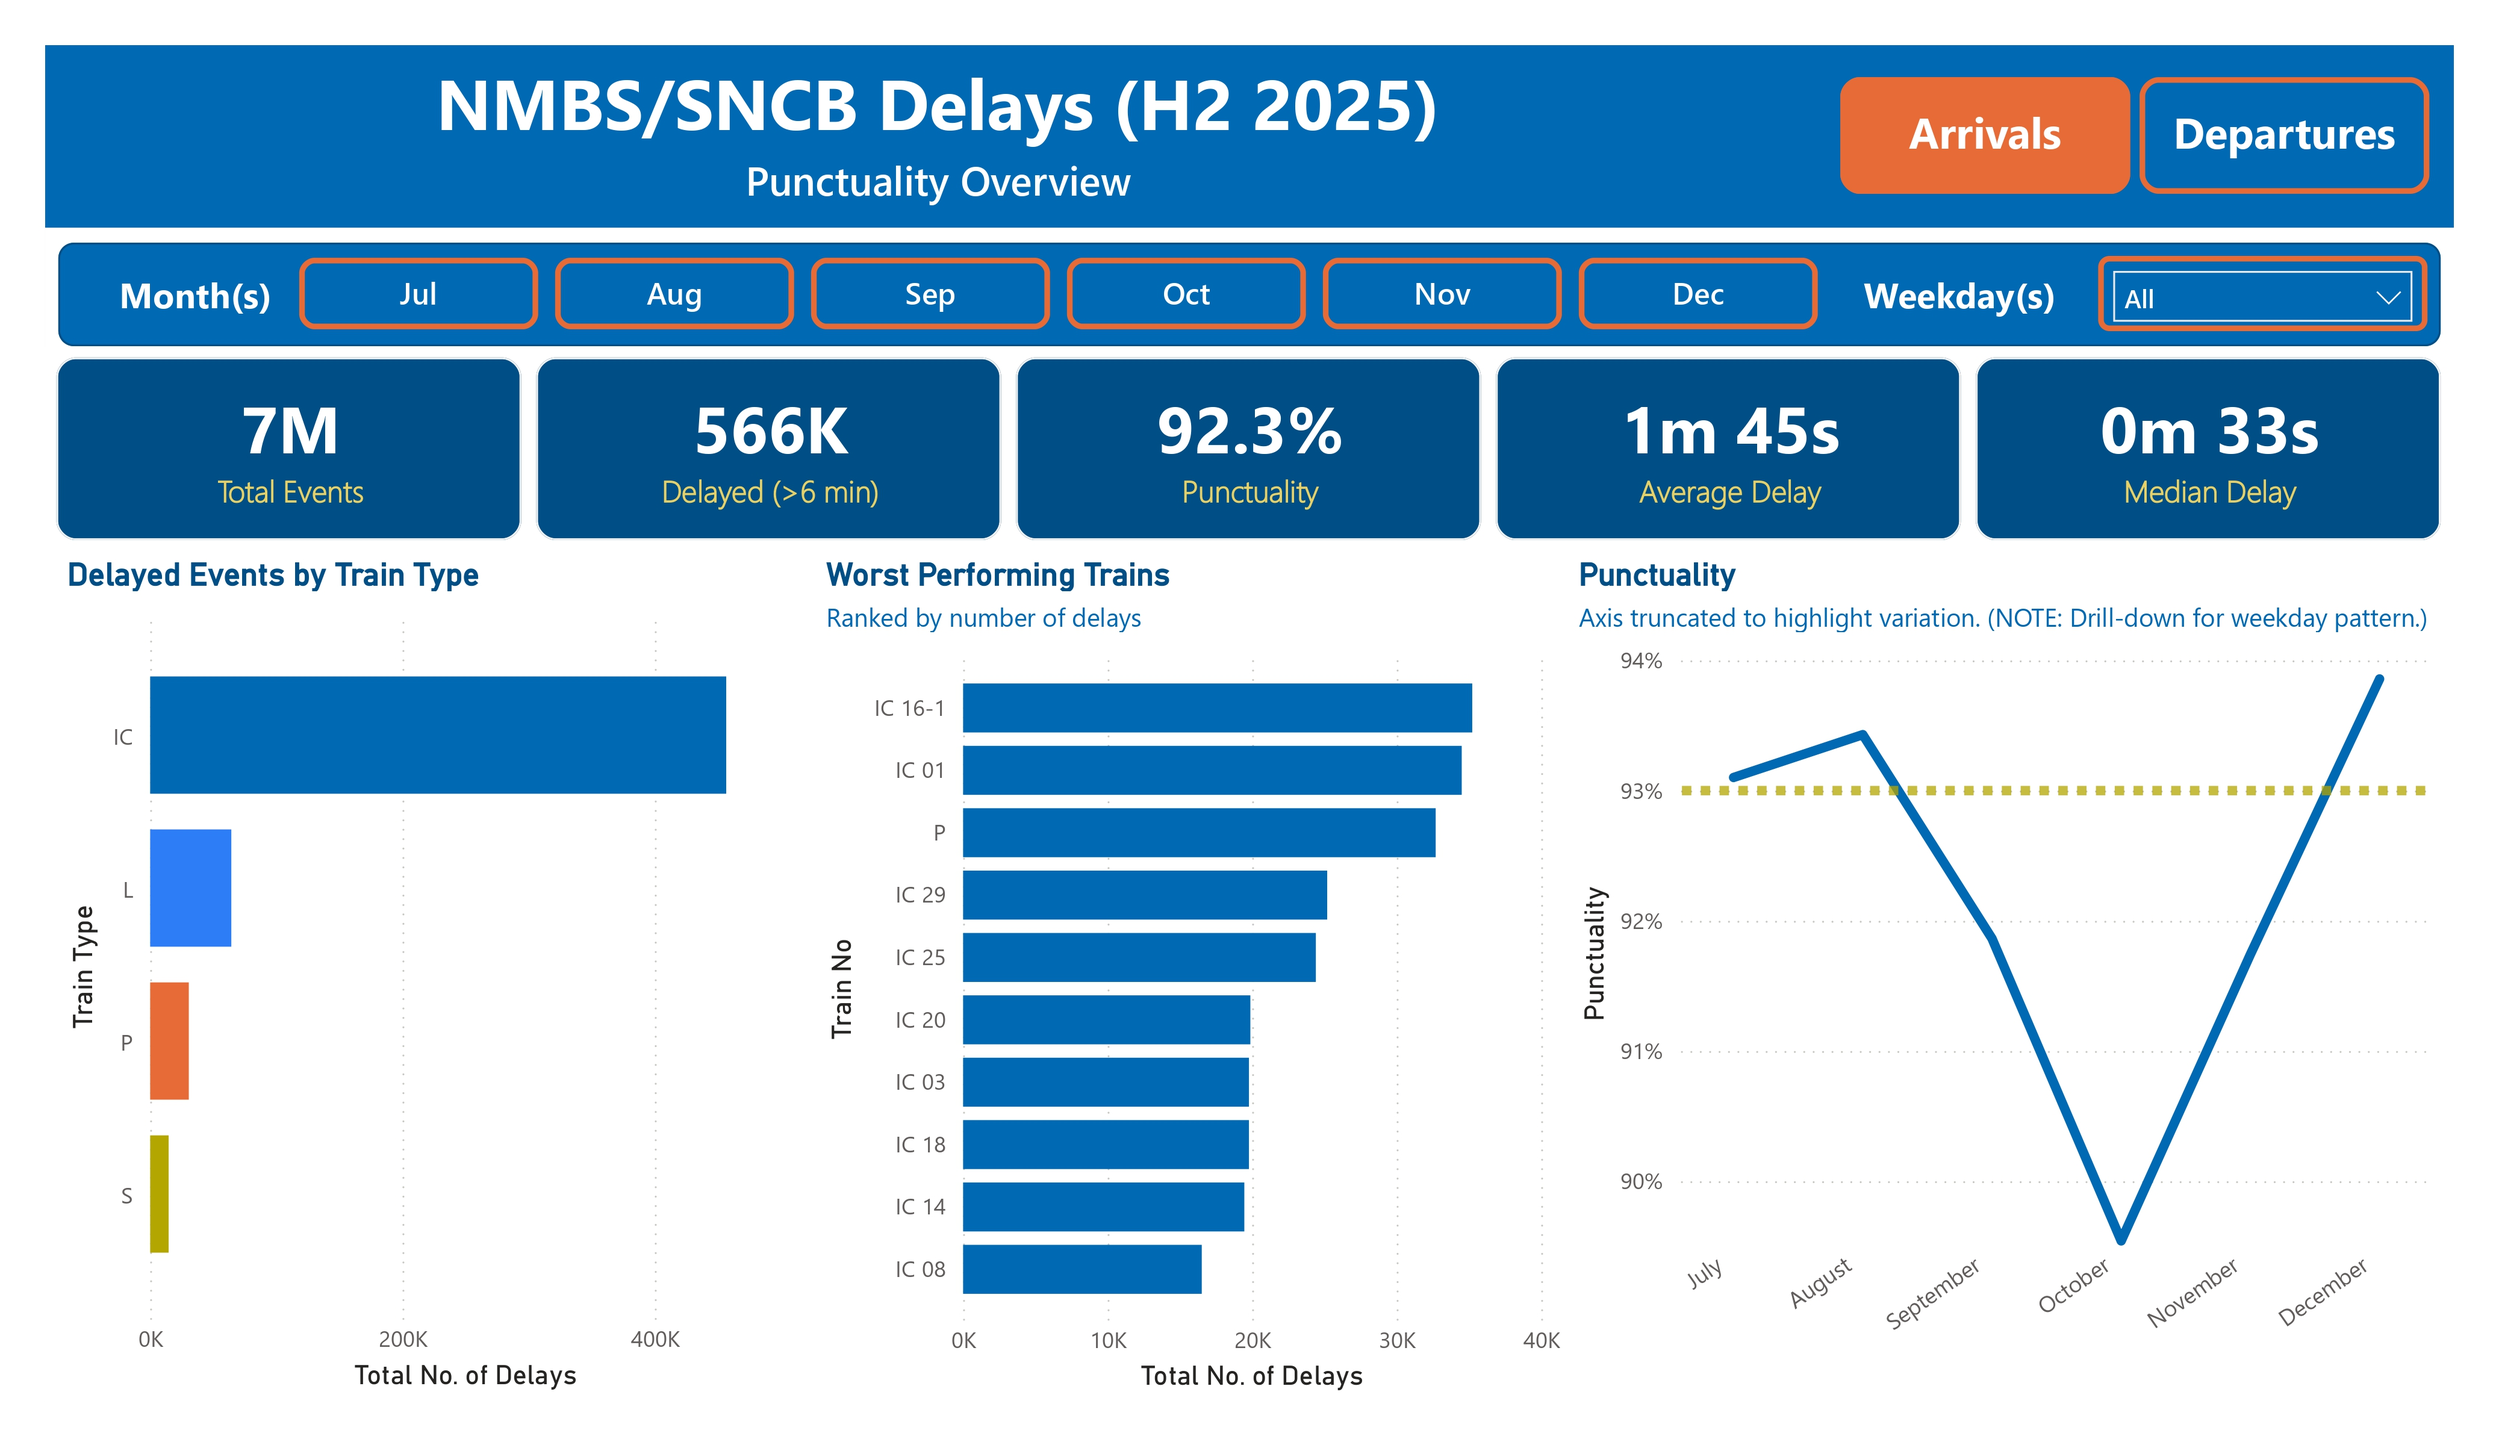
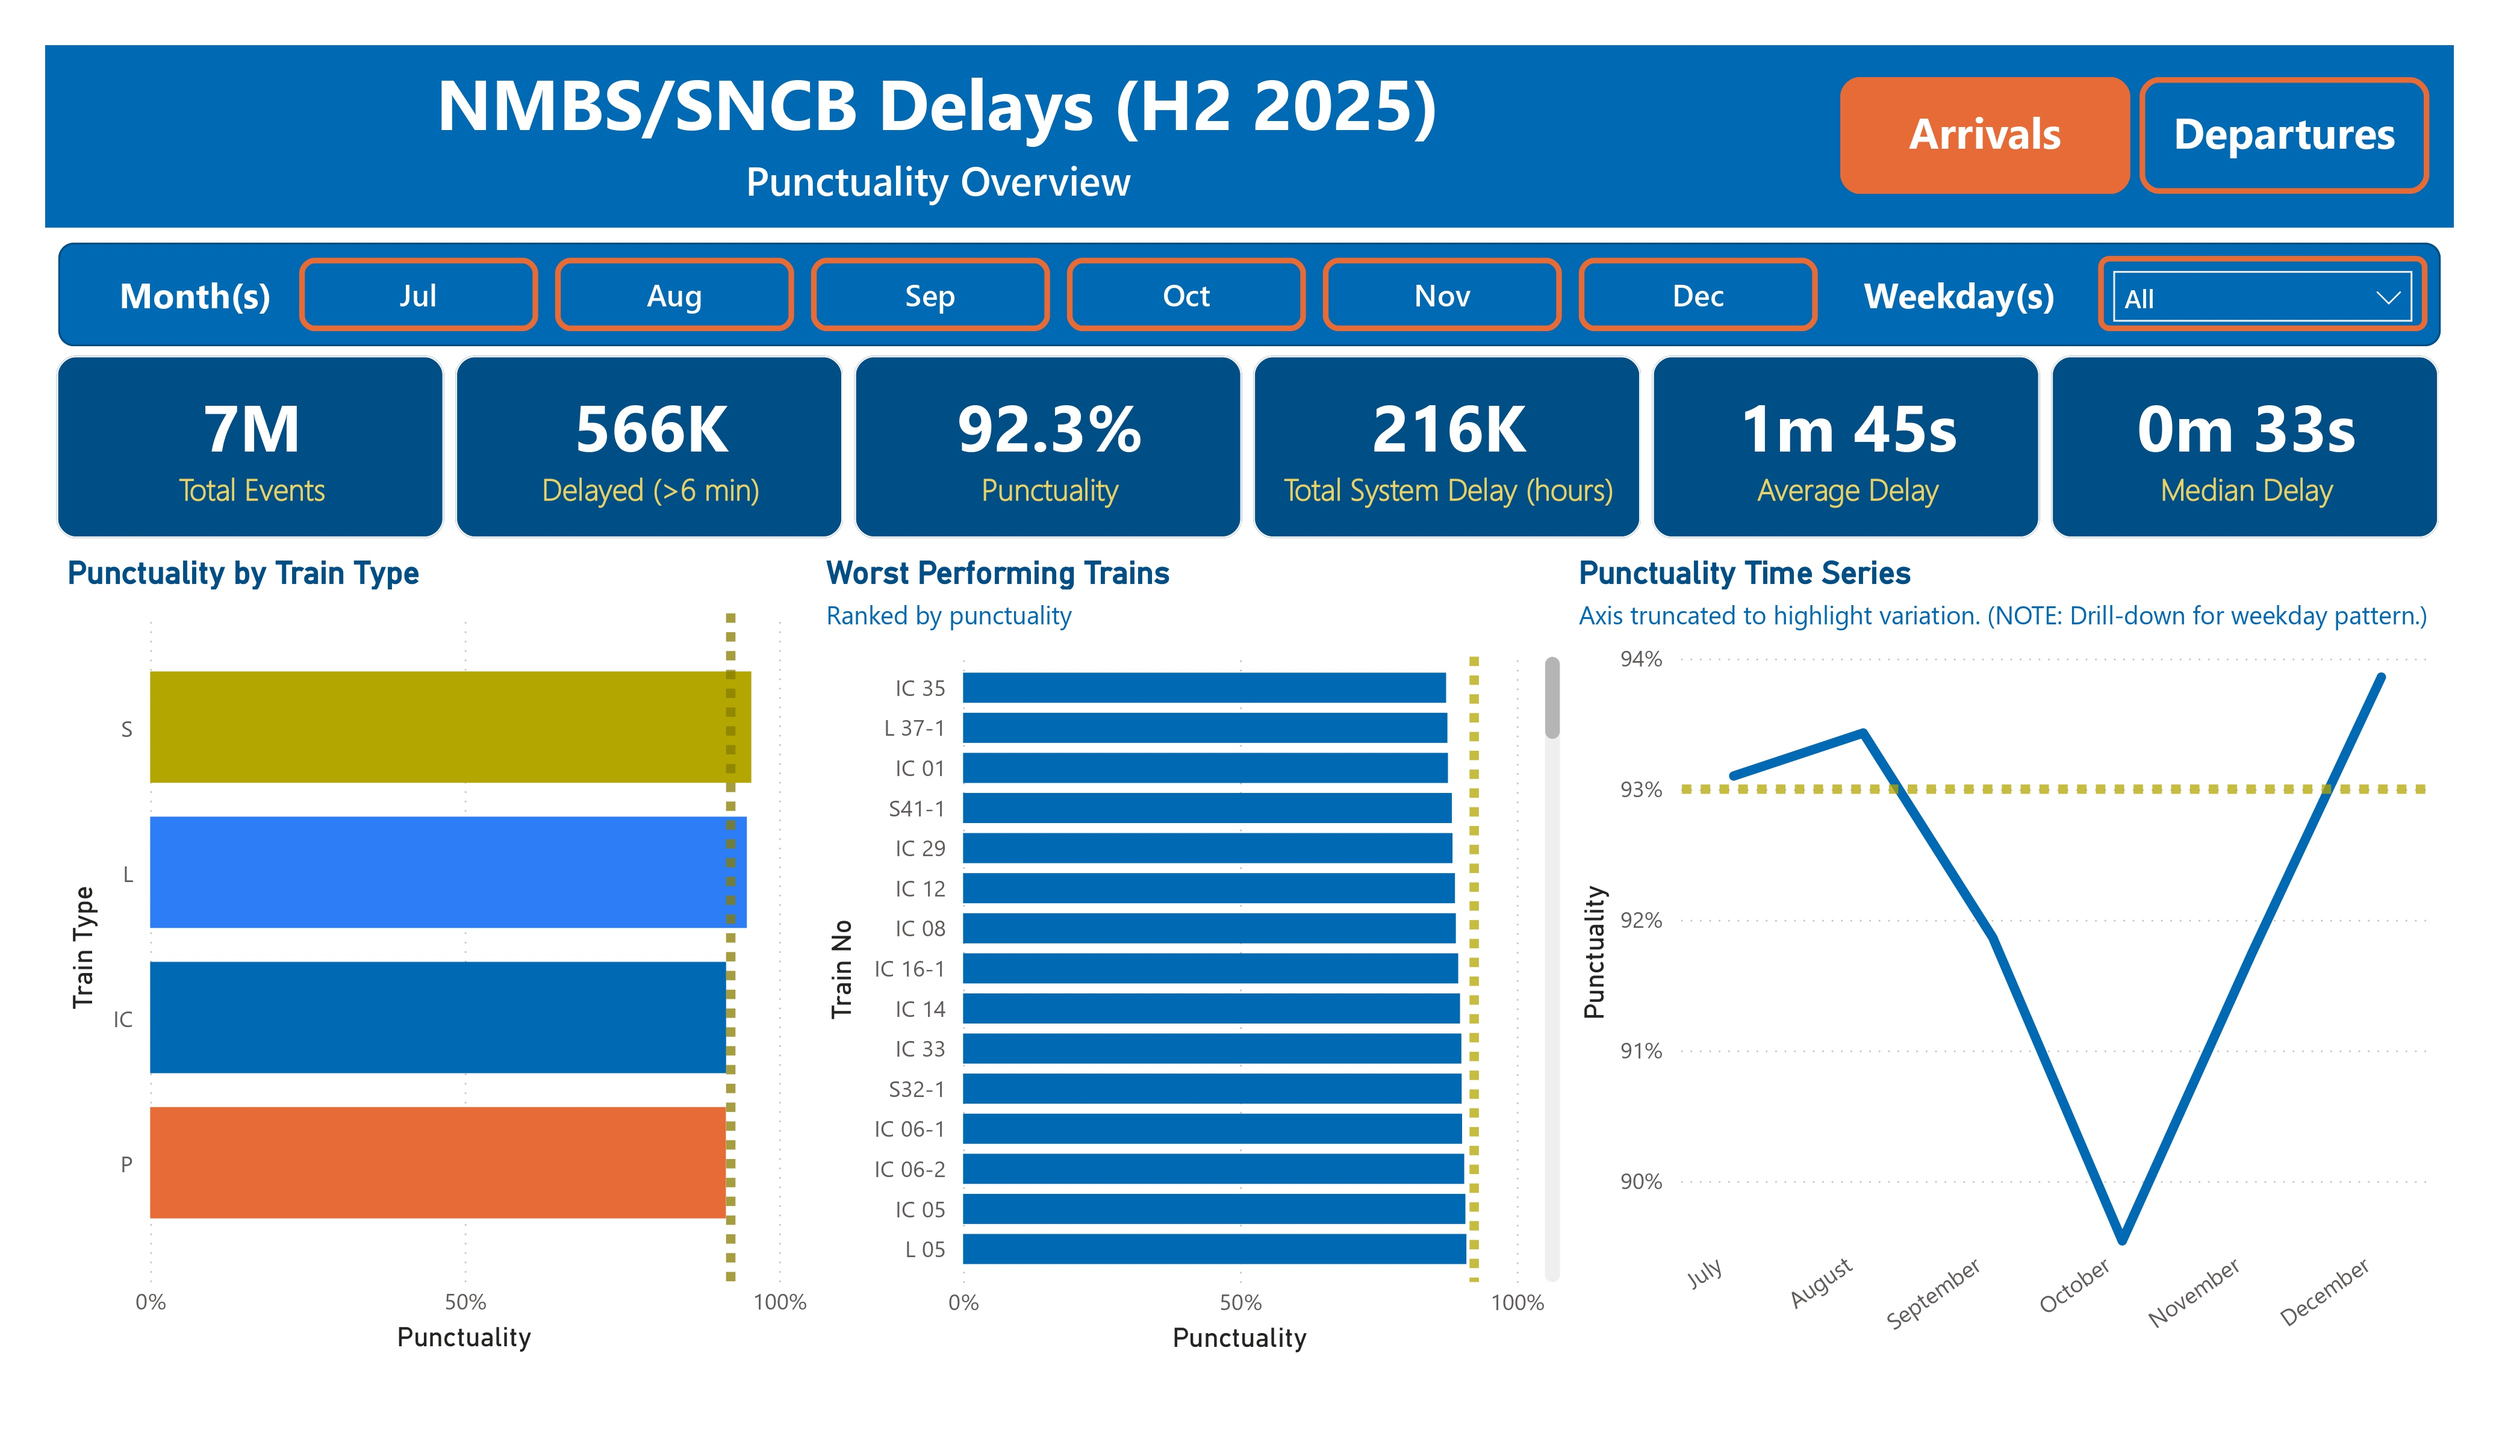
slight changes to NMBS readme and dashboard

diff --git a/Infrabel_Punctuality/README.md b/Infrabel_Punctuality/README.md
@@ -112,6 +112,7 @@ High-level performance indicators:
 - Total events: Total number of events recorded
 - Delayed events (>6 min): Defined according to Belgian railway standards
 - Punctuality rate: Percentage of events that are on time
+- Total System Delay (hours): Cumulative delay across the network
 - Average & median delay: Provides insight into typical delay durations
 
 Includes monthly trend analysis and train-type breakdown.
@@ -121,9 +122,9 @@ Includes monthly trend analysis and train-type breakdown.
 ### 🚉 Stations & Bottlenecks
 Identifies where delays concentrate:
 - Total delay (hours) per station: Gives a clear picture of which stations contribute most to overall delays 
-- Volume vs reliability (log-scale scatter): Plots station traffic against punctuality to identify high-impact stations
+- Volume vs reliability (log-scale scatter): Plots station traffic against average delay to identify high-impact stations
 - Worst punctuality ranking: Get an insight into which stations have the lowest on-time performance
-- Station performance table: Detailed metrics for each station, giving a comprehensive view of punctuality and delay patterns
+- Station performance table: Detailed metrics for each station, giving a comprehensive view of punctuality, consistency and delay patterns
 
 Infrastructure-only nodes were excluded to focus on passenger-relevant stations.
 
